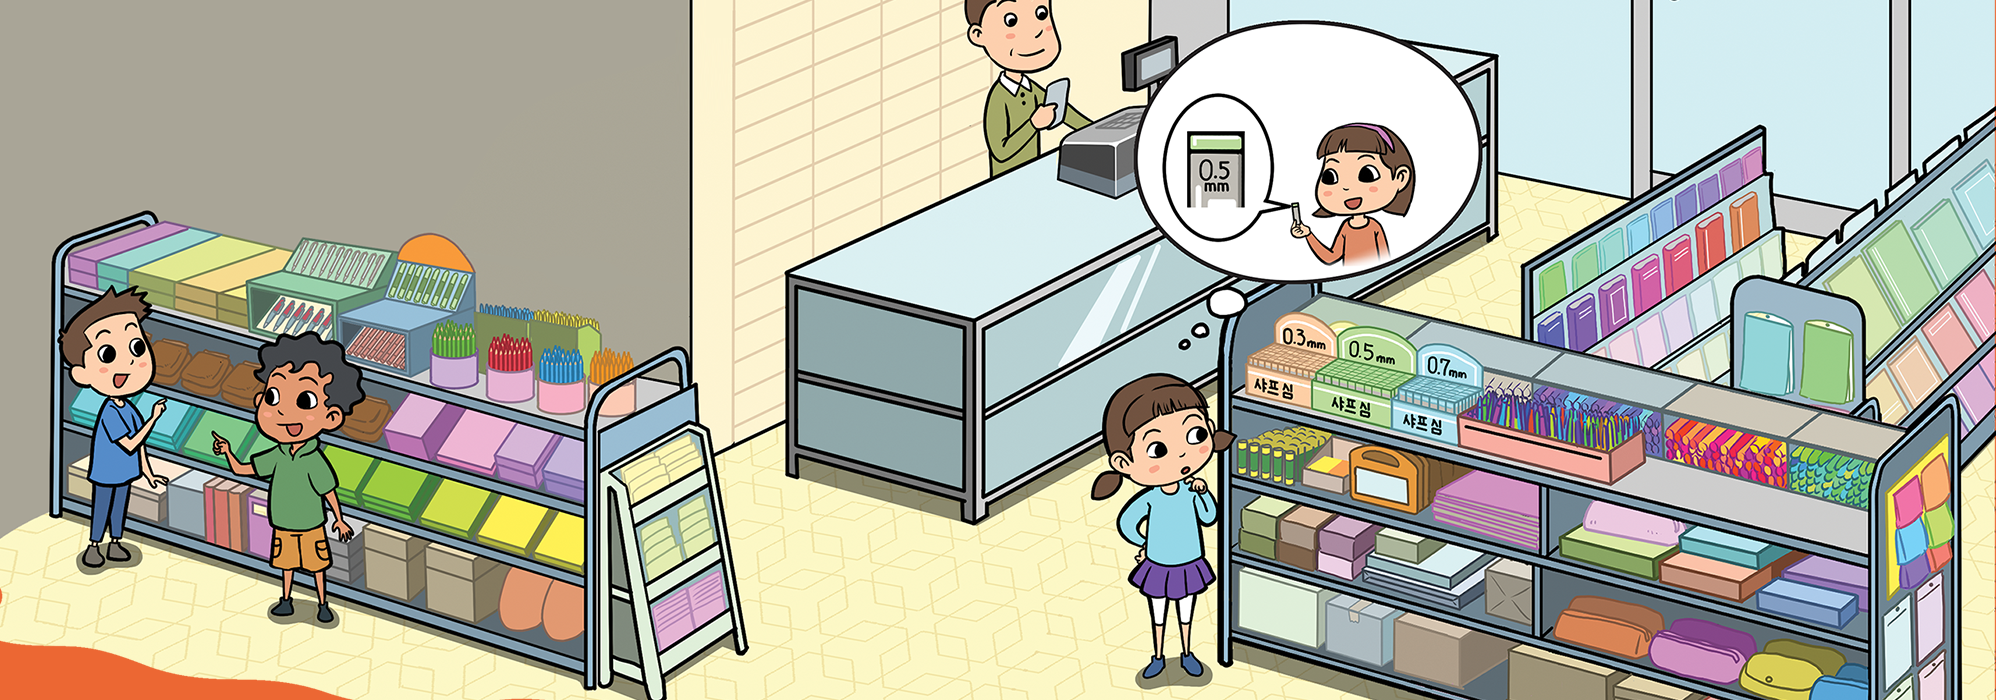
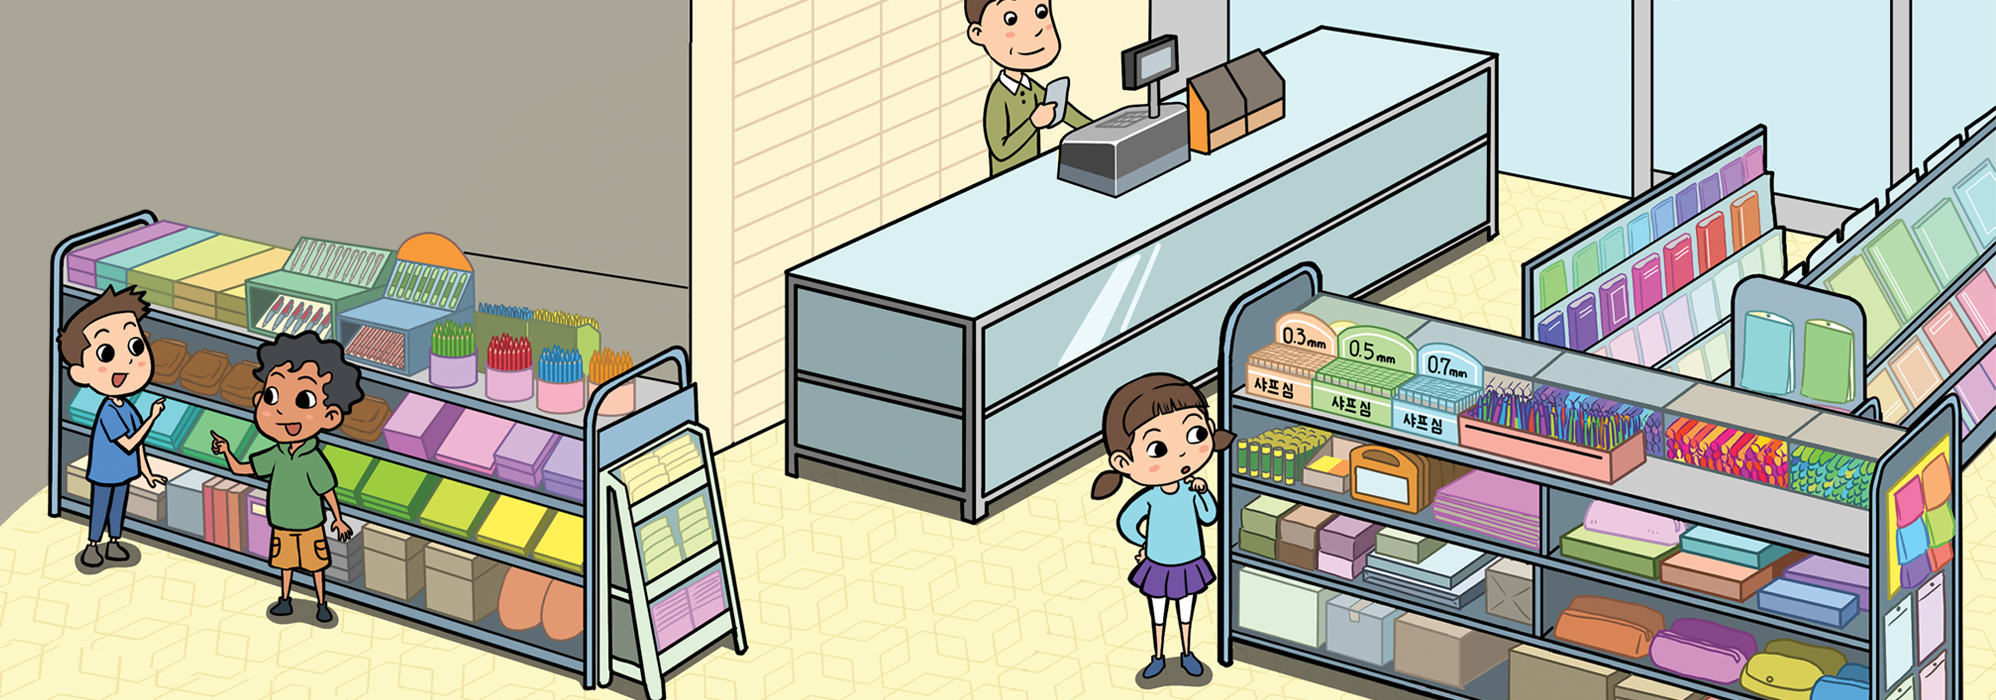
3학년 수정

diff --git a/E-curri03-math-H_2022/31/suh_h_0301_06_0001/suh_h_0301_06_0001_202_1.html b/E-curri03-math-H_2022/31/suh_h_0301_06_0001/suh_h_0301_06_0001_202_1.html
@@ -48,7 +48,10 @@
 											어느 것을 <br>골라야 하지?
 										</div>
 										<div class="b3 balloon bottom orange thinkTail">
+											<div class="box-flex">
+											<img src="./images/suh_h_0301_06_0001_202_1/suh_h_0301_06_0001_202_img.png" alt="">
 											이것보다 더 굵은 <br>샤프심이 필요해.
+											</div>
 										</div>
 
 										<button class="popBtn btn_1 zoomBtn line" data-hover="" data-popup-btn="1">
@@ -82,7 +85,10 @@
 											어느 것을 <br>골라야 하지?
 										</div>
 										<div class="b3 balloon bottom orange thinkTail">
-											이것보다 더 굵은 <br>샤프심이 필요해.
+											<div class="box-flex">
+												<img src="./images/suh_h_0301_06_0001_202_1/suh_h_0301_06_0001_202_img.png" alt="">
+												이것보다 더 굵은 <br>샤프심이 필요해.
+											</div>
 										</div>
 
 										<button class="popBtn btn_1 zoomBtn line" data-hover="" data-popup-btn="1">
@@ -123,7 +129,10 @@
 											어느 것을 <br>골라야 하지?
 										</div>
 										<div class="b3 balloon bottom orange thinkTail">
-											이것보다 더 굵은 <br>샤프심이 필요해.
+											<div class="box-flex">
+												<img src="./images/suh_h_0301_06_0001_202_1/suh_h_0301_06_0001_202_img.png" alt="">
+												이것보다 더 굵은 <br>샤프심이 필요해.
+											</div>
 										</div>
 
 										<button class="popBtn btn_1 zoomBtn line" data-hover="" data-popup-btn="1">
@@ -157,7 +166,10 @@
 											어느 것을 <br>골라야 하지?
 										</div>
 										<div class="b3 balloon bottom orange thinkTail">
-											이것보다 더 굵은 <br>샤프심이 필요해.
+											<div class="box-flex">
+												<img src="./images/suh_h_0301_06_0001_202_1/suh_h_0301_06_0001_202_img.png" alt="">
+												이것보다 더 굵은 <br>샤프심이 필요해.
+											</div>
 										</div>
 
 										<button class="popBtn btn_1 zoomBtn line" data-hover="" data-popup-btn="1">
@@ -191,7 +203,10 @@
 											어느 것을 <br>골라야 하지?
 										</div>
 										<div class="b3 balloon bottom orange thinkTail">
-											이것보다 더 굵은 <br>샤프심이 필요해.
+											<div class="box-flex">
+												<img src="./images/suh_h_0301_06_0001_202_1/suh_h_0301_06_0001_202_img.png" alt="">
+												이것보다 더 굵은 <br>샤프심이 필요해.
+											</div>
 										</div>
 
 										<button class="popBtn btn_1 zoomBtn line" data-hover="" data-popup-btn="1">
@@ -225,7 +240,10 @@
 						어느 것을 <br>골라야 하지?
 					</div>
 					<div class="b3 balloon bottom orange thinkTail">
-						이것보다 더 굵은 <br>샤프심이 필요해.
+						<div class="box-flex">
+							<img src="./images/suh_h_0301_06_0001_202_1/suh_h_0301_06_0001_202_img.png" alt="">
+							이것보다 더 굵은 <br>샤프심이 필요해.
+						</div>
 					</div>
 					<img src="./images/suh_h_0301_06_0001_202_1/suh_h_0301_06_0001_202_1_2.png" alt="">
 				</li>

diff --git a/E-curri03-math-H_2022/31/suh_h_0301_06_0001/css/suh_h_0301_06_0001_202_1.css b/E-curri03-math-H_2022/31/suh_h_0301_06_0001/css/suh_h_0301_06_0001_202_1.css
@@ -9,12 +9,15 @@
 .balloon{text-align: center; z-index: 2;}
 .figureUL .b1{top: 0px;left: -50px;width: 330px;}
 .figureUL .b2{top: 150px;left: 219px;width: 230px;}
-.figureUL .b3{top: -10px;left: 350px;width: 300px;}
+.figureUL .b3{top: -10px;left: 290px;width: 410px;}
 
 .popup_pages img{height: 100%;}
 .popup_pages .b1{top: 260px;left: 30px;width: 350px;}
 .popup_pages .b2{top: 420px;left: 510px;width: 230px;}
-.popup_pages .b3{top: 260px;left: 620px;width: 310px;}
+.popup_pages .b3{top: 260px;left: 570px;width: 400px;}
+
+.box-flex {display:flex;align-items:center;}
+.box-flex img {height:80px}
 
 .page_2 .textAlignC .toggle{width: 100%;}
 .page_2 .textAlignC {
